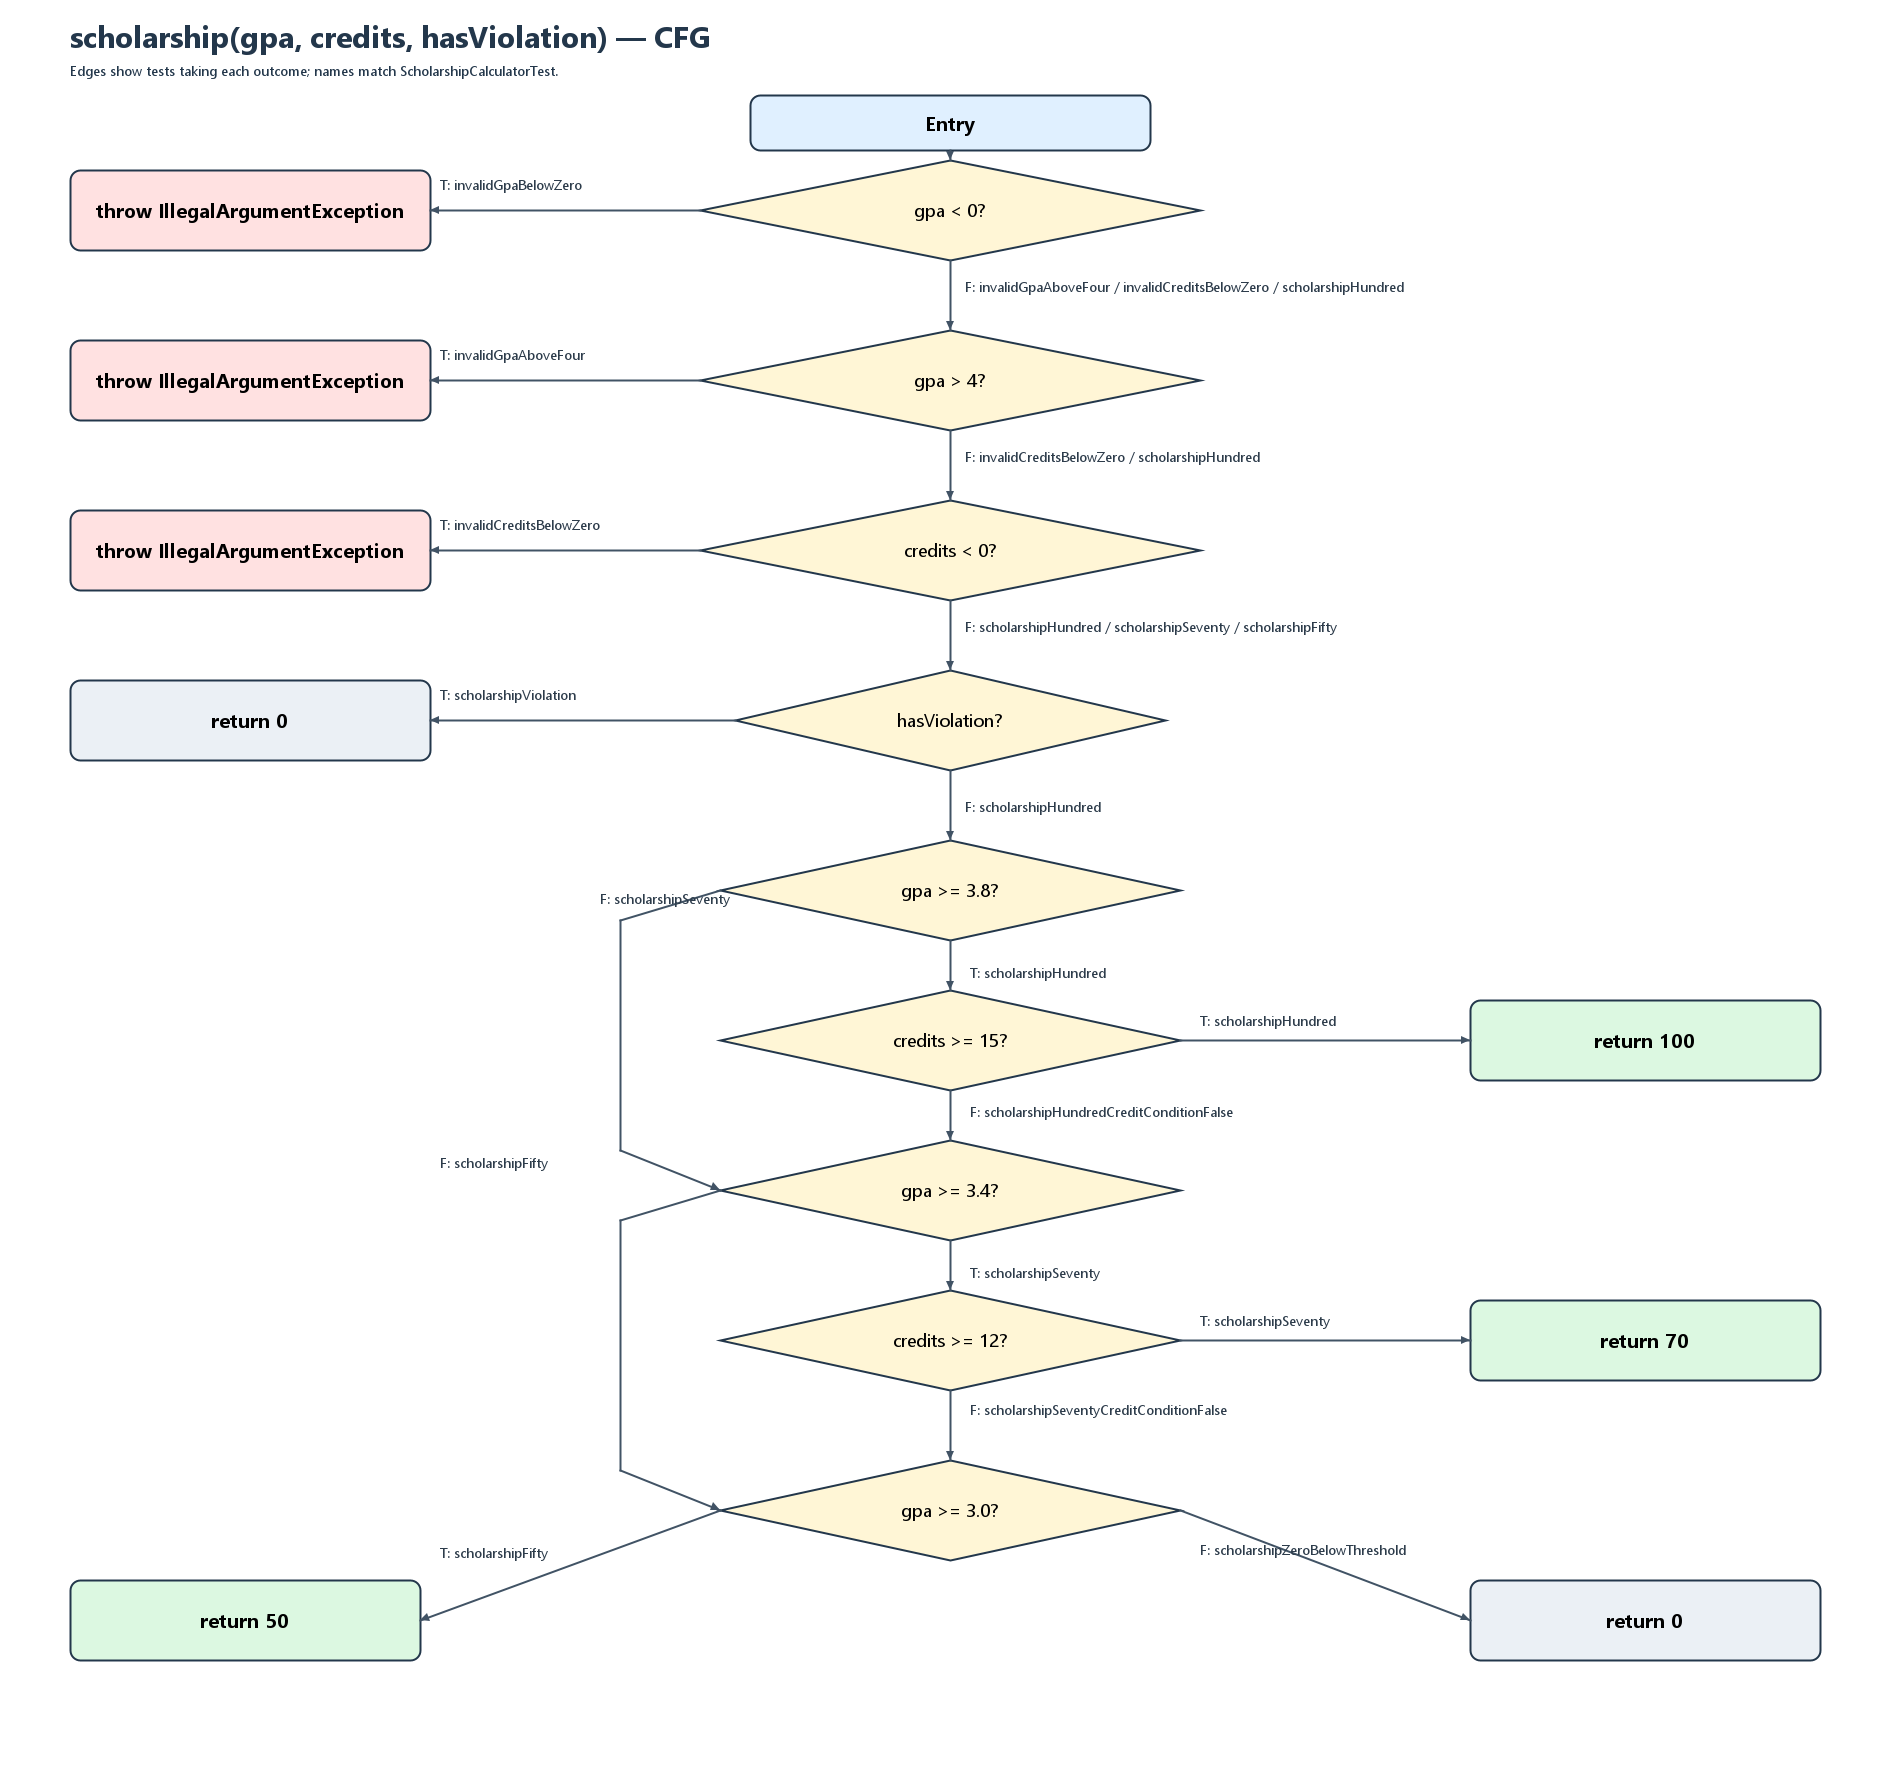
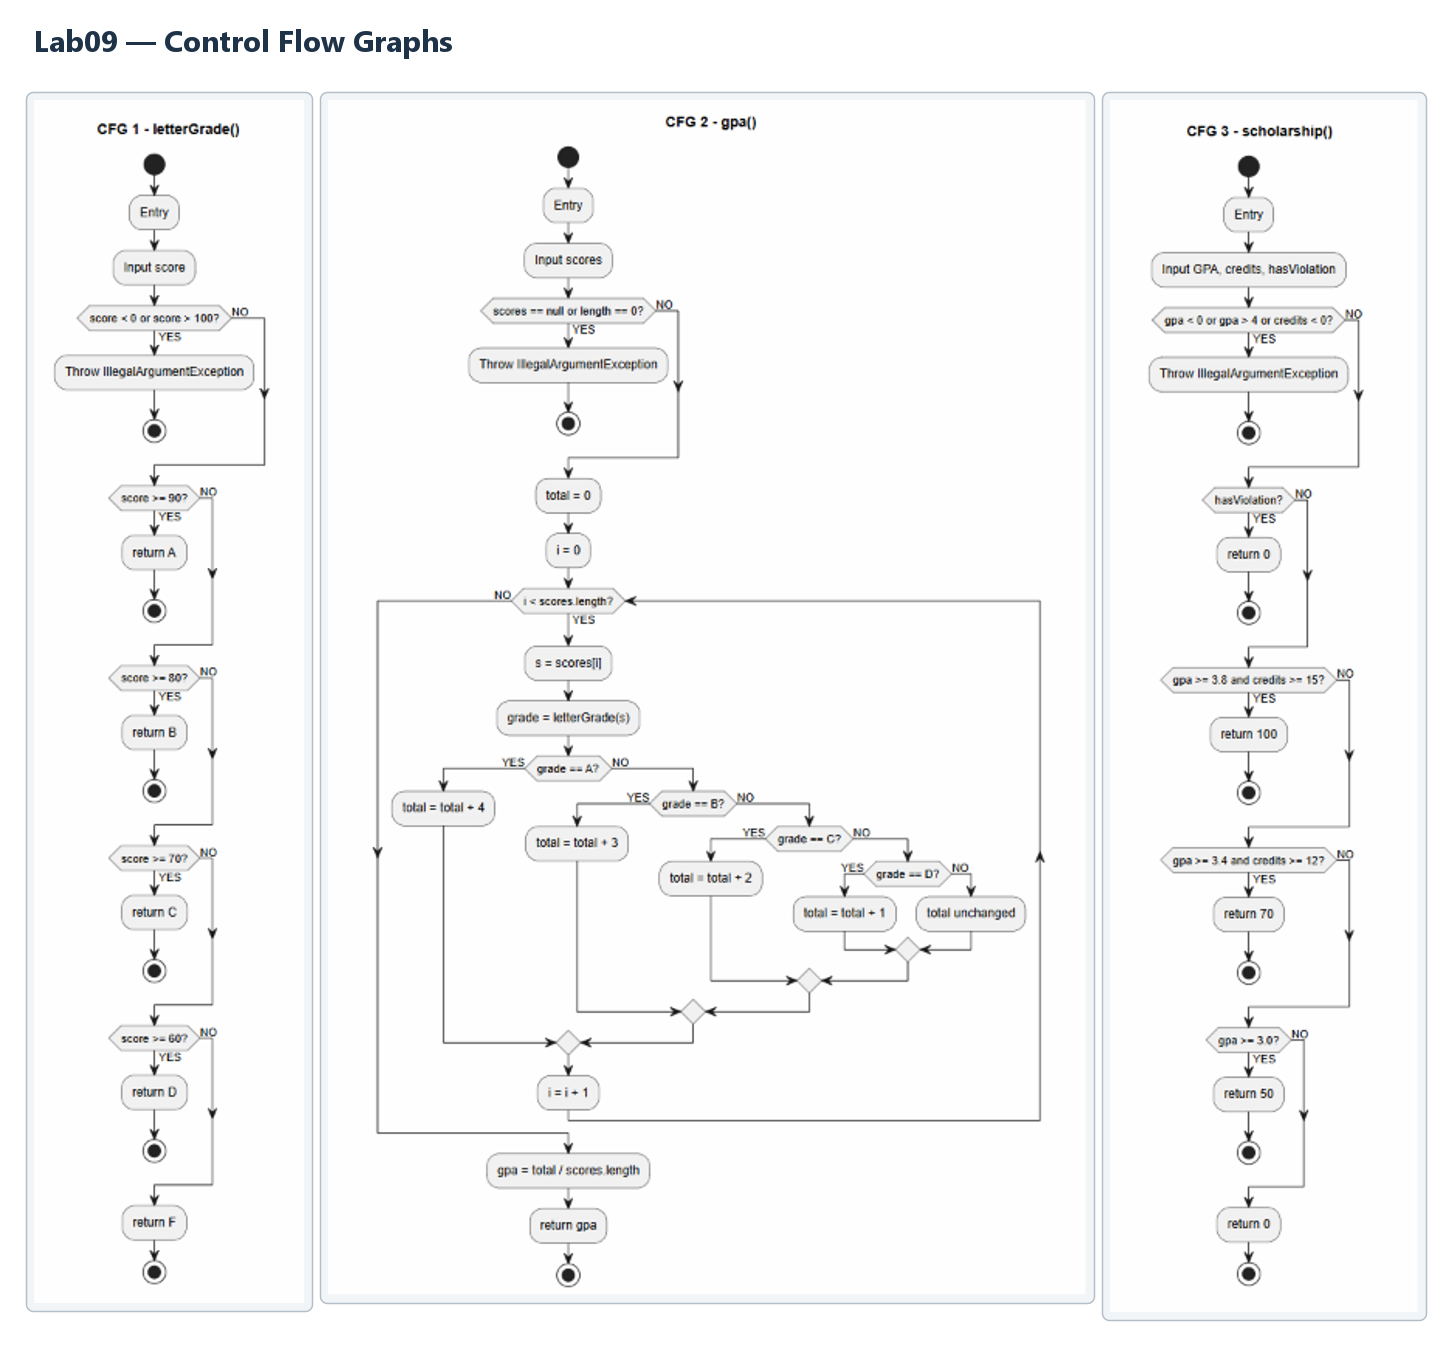
Expand README and document all three CFGs

diff --git a/README.md b/README.md
@@ -1,8 +1,13 @@
-# Лаборатори №9 — JaCoCo код хамралт
+# Лаборатори №9 — Код хамралт: JaCoCo-гоор тестээ хөтлөх
 
-- Оюутан: О. Доржсамбуу
-- Оюутны код: B232270071
-- Орчин: Windows 11, OpenJDK 25.0.2, Maven 3.9.16
+- **Оюутан:** О. Доржсамбуу
+- **Оюутны код:** B232270071
+- **Хичээл:** F.CSA313 — Программ хангамжийн чанарын баталгаа ба тест
+- **Орчин:** Windows 11, PowerShell
+
+## Орчны хувилбар
+
+Төсөл Java 17 source compatibility-тэй. Локал орчинд OpenJDK 25.0.2, Maven 3.9.16, JUnit Jupiter 5.10.2, JaCoCo 0.8.14 ашигласан. JaCoCo 0.8.14 нь Java 25-ыг албан ёсоор дэмждэг ([JaCoCo өөрчлөлтийн түүх](https://www.jacoco.org/jacoco/trunk/doc/changes.html)).
 
 `java -version`:
 
@@ -19,27 +24,121 @@ Apache Maven 3.9.16 (2bdd9fddda4b155ebf8000e807eb73fd829a51d5)
 Maven home: C:\Program Files\Apache\Maven\apache-maven-3.9.16
 Java version: 25.0.2, vendor: Eclipse Adoptium, runtime: C:\Users\User\AppData\Local\Programs\Eclipse Adoptium\jdk-25.0.2.10-hotspot
 Default locale: en_US, platform encoding: UTF-8
-OS name: "windows 11", arch: "amd64", family: "windows"
+OS name: "windows 11", version: "10.0", arch: "amd64", family: "windows"
 ```
 
-## A — Эхний хэмжилт
+## Төслийн бүтэц
 
-Эхний таван happy-path тестээр Line хамралт 15/25 = **60.0%**, Branch хамралт 20/41 = **48.8%** байв (`results/jacoco-A.csv`). Тайланд шарласан хэсгүүдэд онооны ангилал болон тэтгэлгийн шийдвэрийн зарим салаа дутуу байсан. Улаан мөрүүдэд хүчингүй оролт, зөрчил, бусад дүнгийн ангилал болон GPA-ийн замууд тестгүй байлаа.
+```text
+fresh-start/
+├── pom.xml
+├── cfg.png                              # гурван CFG-г нэгтгэсэн зураг
+├── cfg1_letterGrade().png               # letterGrade() CFG
+├── cfg2_gpa().png                       # gpa() CFG
+├── cfg3_scholarship().png                # scholarship() CFG
+├── src/main/java/mn/edu/must/sqat/
+│   └── ScholarshipCalculator.java
+├── src/test/java/mn/edu/must/sqat/
+│   └── ScholarshipCalculatorTest.java   # A–D үеийн тестүүд
+└── results/
+    ├── mvn-verify-A.txt
+    ├── jacoco-A.csv
+    ├── mvn-verify-B.txt
+    ├── jacoco-B.csv
+    ├── mvn-test-D-fail.txt
+    ├── mvn-verify-final.txt
+    └── jacoco-final.csv
+```
 
-## B — Бүрэн branch хамралт
+`target/` нь `.gitignore`-т орсон тул репод орохгүй.
 
-[`cfg.png`](cfg.png) нь `scholarship()`-ийн нөхцөл ба салааг харуулж, ирмэг бүр дээр тестийн методын нэрийг тэмдэглэсэн. Бүрэн branch/line хамралтад 23 тест шаардсан (`results/mvn-verify-B.txt`). `results/jacoco-B.csv`-д `BRANCH_MISSED = 0`, `LINE_MISSED = 0`.
+## Хэсэг A — Happy path ба эхний хэмжилт
 
-## C — Давталтын зааг
+Эхний таван хэвийн урсгалын тест бүгд амжилттай (`results/mvn-verify-A.txt`). JaCoCo-ийн эхний хэмжилт (`results/jacoco-A.csv`):
 
-`gpaNullArray` болон `gpaEmptyArray` нь 0 удаагийн давталтын null/хоосон оролтыг `assertThrows`-оор шалгана. `oneIterationGpa` нь 1, `multipleIterationGpa` нь 2+ элементийн тохиолдлыг шалгаж, `zeroIterationIsRejected` хоосон массивын exception-ийг давхар батална. Эдгээр тест хамралтын хувийг өсгөхгүй ч массивын хязгаарын ажиллагааг баталгаажуулна.
+| Хэмжүүр | Хамрагдсан | Хамрагдаагүй | Нийт | Хамралт |
+|---|---:|---:|---:|---:|
+| Line | 15 | 10 | 25 | **60.0%** |
+| Branch | 20 | 21 | 41 | **48.8%** |
 
-## D — Хамралт 100% ч алдаа үлдсэн нь
+Шар ромбууд нь нөхцөлийн зөвхөн нэг үр дүнгээр явсан хэсгүүд байв. Үүнд `letterGrade()`-ийн бүх үнэлгээний зам, `gpa()`-ийн null/хоосон массив ба switch-ийн C/D/F/default тохиолдлууд, `scholarship()`-ийн зөрчил болон босго нөхцөлүүд орно. Улаан мөрүүдэд хүчингүй оноо, GPA, кредитийн exception зам болон тестэд хүрээгүй буцаалтын мөрүүд байлаа.
 
-`results/mvn-test-D-fail.txt`-д `ScholarshipCalculatorTest.gradeBoundary60IsD` тест `expected: <D> but was: <F>` гэж унасан. `letterGrade` дахь `score > 60` нөхцөлийг спецификацийн дагуу `score >= 60` болгон зассан.
+## Хэсэг B — CFG ба 100% хамралт
 
-Branch coverage нь шийдвэрийн хоёр талд тест хүрсэн эсэхийг хэмждэг болохоос харьцуулах операторын зааг зөв эсэхийг баталдаггүй. `score > 60` болон `score >= 60` нь зааг болох яг 60-аас бусад оноон дээр ижил branch-үүдээр явах боломжтой. Тиймээс 100% branch хамралт байсан ч 60 онооны алдаа үлдэж, `letterGrade(60)` тест л илрүүлсэн. Засварын дараа 33 тест бүгд ногоон болж, `results/jacoco-final.csv`-д Branch ба Line missed хоёулаа 0 болсон.
+CFG-г `letterGrade()`, `gpa()`, `scholarship()` гэсэн гурван хэсэг болгон шинэчилсэн.
 
-## Коммит ба AI ашиглалт
+![Гурван функцийн CFG](cfg.png)
 
-Коммитын дараалал A → B → C → D алдааг илрүүлсэн тест → D засвар байна. JaCoCo хувилбарыг Java 25-тэй нийцүүлэхээр 0.8.14 болгосон; энэ хувилбар Java 25-ыг албан ёсоор дэмждэг. Хиймэл оюун ухаанаар тест болон тайлан бэлтгэхэд туслуулсан; Maven build болон тайланг бодитоор ажиллуулж шалгасан.
+Тус тусын зураг: [letterGrade()](<cfg1_letterGrade().png>) · [gpa()](<cfg2_gpa().png>) · [scholarship()](<cfg3_scholarship().png>).
+
+Тэтгэлгийн CFG-ийн салааг дараах бодит тестийн методууд хамарна:
+
+| Нөхцөл/ирмэг | YES салааны тест | NO салааны тест |
+|---|---|---|
+| `gpa < 0 || gpa > 4 || credits < 0` | `invalidGpaBelowZero`, `invalidGpaAboveFour`, `invalidCreditsBelowZero` | `scholarshipHundred` |
+| `hasViolation` | `scholarshipViolation` | `scholarshipHundred` |
+| `gpa >= 3.8` | `scholarshipHundred` | `scholarshipSeventy` |
+| `credits >= 15` | `scholarshipHundred` | `scholarshipHundredCreditConditionFalse` |
+| `gpa >= 3.4` | `scholarshipSeventy` | `scholarshipFifty` |
+| `credits >= 12` | `scholarshipSeventy` | `scholarshipSeventyCreditConditionFalse` |
+| `gpa >= 3.0` | `scholarshipFifty` | `scholarshipZeroBelowThreshold` |
+
+Бүрэн branch/line хамралтад нийт **23 тест** шаардсан: A үеийн 5 тест дээр B үеийн 18 тест нэмсэн (`results/mvn-verify-B.txt`). B үеийн тестүүд `letterGrade()`-ийн F/C/D ба хүчингүй оноо, `gpa()`-ийн null/хоосон массив ба switch-ийн бүх үр дүн, `scholarship()`-ийн гурван тусдаа `assertThrows`, зөрчил болон босго/кредитийн салбаруудыг шалгана.
+
+`results/jacoco-B.csv`:
+
+| Хэмжүүр | Хамрагдсан | Хамрагдаагүй | Хамралт |
+|---|---:|---:|---:|
+| Line | 25 | 0 | **100%** |
+| Branch | 41 | 0 | **100%** |
+
+## Хэсэг C — Давталтын заагийн тестүүд
+
+`gpa()`-ийн давталтын 0 / 1 / 2+ заагийг шалгасан:
+
+| Тохиолдол | Тестийн метод | Шалгалт |
+|---|---|---|
+| 0 оролт, хоосон массив | `gpaEmptyArray`, `zeroIterationIsRejected` | `assertThrows(IllegalArgumentException.class, ...)` |
+| 0 оролт, null | `gpaNullArray` | `assertThrows(IllegalArgumentException.class, ...)` |
+| 1 дүн | `oneIterationGpa` | `gpa([95]) == 4.0` |
+| 2+ дүн | `multipleIterationGpa` | `gpa([95, 85, 75, 65]) == 2.5` |
+
+Эдгээр нэмэлт тест хамралтын хувийг өсгөөгүй: Branch аль хэдийн 41/41, Line 25/25 байсан. Гэхдээ JaCoCo давталтын бие дор хаяж нэг удаа ажилласныг л харуулна; 0/1/олон элементийн үр дүн зөв эсэхийг эдгээр заагийн тестүүд шалгана.
+
+## Хэсэг D — Хамралт 100%, гэхдээ алдаа амьд
+
+`letterGrade()`-д 7 заагийн утгын тест нэмсэн: `60`, `59.99`, `69.99`, `0`, `100`, `89.99`, `90`. Нийт 33 тест ажилласан.
+
+`results/mvn-test-D-fail.txt`-д дараах тест унасан:
+
+```text
+ScholarshipCalculatorTest.gradeBoundary60IsD
+expected: <D> but was: <F>
+```
+
+**Шалтгаан ба засвар:** Спецификацид 60–69.99 оноо D байх ёстой. Код дахь `score > 60` нөхцөл яг 60 дээр F буцааж байсан тул `score >= 60` болгож зассан. Засвар тусдаа `5d2f3fa` commit-оор хадгалагдсан (`Fix letterGrade threshold: 60 is D per specification`).
+
+Засварын дараах `results/mvn-verify-final.txt`-д **33 тест бүгд амжилттай** (`BUILD SUCCESS`). `results/jacoco-final.csv`-ийн эцсийн хэмжилт:
+
+| Хэмжүүр | Хамрагдсан | Хамрагдаагүй | Хамралт |
+|---|---:|---:|---:|
+| Line | 25 | 0 | **100%** |
+| Branch | 41 | 0 | **100%** |
+
+## Гол дүгнэлт
+
+Branch хамралт 100% болсон ч `letterGrade(60)`-ийн алдаа үлдсэн. Учир нь `score > 60` ба `score >= 60` нь 60-аас бусад утгууд дээр ижил үнэн/худал салааг үүсгэж чадна. `letterGrade(65)` үнэн салаа, `letterGrade(50)` худал салааг хамруулсан тул JaCoCo хоёр салааг хоёуланг нь ногоон гэж тоолсон. Ялгаа зөвхөн зааг болох 60 дээр гарсан бөгөөд `gradeBoundary60IsD` тест алдааг илрүүлсэн. Иймээс хамралт нь тест хүрсэн мөр, салааг хэмждэг боловч гарсан үр дүн зөв эсэхийг баталдаггүй; спецификацид суурилсан заагийн тестээр нөхөх шаардлагатай.
+
+## Коммитын дараалал
+
+| Үе | Commit | Өөрчлөлт |
+|---|---|---|
+| A | `cd99bab` | Happy path тест, эхний тайлан |
+| B | `0b49f78` | Бүх салаа ба мөрийн хамралт |
+| C | `4c1cc79` | Давталтын заагийн тестүүд |
+| D — уналт | `555d8fb` | 60 онооны алдааг илрүүлэх тест ба гаралт |
+| D — засвар | `5d2f3fa` | `60`-ын харьцуулалтыг зассан |
+
+## AI ашиглалтын тэмдэглэл
+
+AI туслахыг тест, CFG зураглал, тайлангийн эхийг бэлтгэж сайжруулахад ашигласан. Тестүүд болон JaCoCo тайланг Maven-аар бодитоор ажиллуулж шалгасан.
